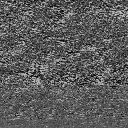
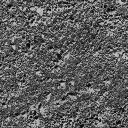
Chão: textura de detalhe decodificada certa (gob com mipmap) e grão recalibrado
O gob_tex2png pegava o fim do arquivo quando o .gob tinha mipmap (tamanho 0x158 maior que a imagem): a DETAIL.bog saía embaralhada (ruído) e com uma faixa (os níveis menores). Agora o nível 0 vem do 0x15c. Sai o ajuste de igualar linhas. Grão: força 0.9, some de 4 a 20 m; jogo 14.2 perto / 4.5 meio, remake 11.3 / 5.3.

Claude-Session: https://claude.ai/code/session_01KsSrzkeumqhscb5q9SBJ4V

diff --git a/tools/gob_tex2png.py b/tools/gob_tex2png.py
@@ -128,6 +128,11 @@ def convert(path):
     sz, off = u32(d, 0x158), u32(d, 0x15C)
     if sz == img_size and off + sz <= len(d):
         pix = d[off:off + sz]
+    elif sz > img_size and off + img_size <= len(d) and off + sz <= len(d):
+        # com mipmaps (ex: DETAIL.bog das pistas, 10880 = 128x128 + 64 + 32 +
+        # 16 em 4 bits): o nível 0 vem primeiro. Antes caía no "fim do
+        # arquivo" e misturava os níveis menores (saía ruído embaralhado)
+        pix = d[off:off + img_size]
     else:
         pix = d[len(d) - img_size:]
 

diff --git a/CLAUDE.md b/CLAUDE.md
@@ -646,15 +646,18 @@ Matheus: `C:\Users\Guida\Desktop\Estudo de programação\ATV 4 Engenharia revers
   assets/terrain/rx01_detalhe.png, no git). env.header +0x2c = 5.0 e o
   0x29ed98 (x16) = 80 repetições por bloco de 128 m (1.6 m cada; leitura
   nossa). A mistura fica no VU1 (não achada): NOSSO terrain.gd fator 1 +
-  1.15 x (alfa/média - 1), mesmo brilho médio, apagando de 5 a 25 m da
+  0.9 x (alfa/média - 1), mesmo brilho médio, apagando de 4 a 20 m da
   câmera. Calibrado pelo desvio do grão fino (imagem a 640 px): jogo 14.2
-  perto / 4.5 meio; remake 0.2 / 1.7 antes, 13.5 / 6.1 agora. DETALHE=x,
-  DETALHE_M=x, DETALHE_SOME=a,b (diagnóstico).
-  Faixas ("tá tendo divisões", print do Matheus): o terço de baixo da
-  DETAIL.bog tem bem menos contraste (desvio 15-29 x ~40) e repetida a cada
-  1.6 m virava faixa diagonal no chão; no jogo não aparece. NOSSO:
-  terrain._iguala_linhas deixa cada linha com a média e o desvio da textura
-  na carga (o arquivo fica cru). Grão agora 12.6 perto / 5.7 meio.
+  perto / 4.5 meio; remake 0.2 / 1.7 sem detalhe, 11.3 / 5.3 agora.
+  DETALHE=x, DETALHE_M=x, DETALHE_SOME=a,b (diagnóstico).
+  ERRO NOSSO que custou caro ("parece ruído, não parece o chão do jogo",
+  Matheus): textura com MIPMAP no .gob (0x158 = tamanho de todos os níveis,
+  ex: DETAIL.bog 10880 = 128x128 + 64 + 32 + 16 em 4 bits) caía no "pega o
+  fim do arquivo" do gob_tex2png e saía embaralhada (ruído puro, e o terço
+  de baixo diferente = os níveis menores). Agora o nível 0 vem do 0x15c. 477
+  das 15681 texturas do unpacked têm mipmap: quase todas DETAIL das pistas
+  (PlaceHolder), "dirt" vazias dos carros e umas de menu; nada do RX01 nem
+  dos carros que já usávamos.
 - Material do chão: só o atrito (pneu) e o Damping (arrasto do chão,
   0x20e5e8) mexem na física do buggy. Hardness, Sink e Bounciness o jogo
   carrega e não lê (varredura do exe, docs Terreno). Não "portar" eles.

diff --git a/docs/engenharia_reversa.md b/docs/engenharia_reversa.md
@@ -972,7 +972,8 @@ vazios). Tudo vem do evento:
   renderer 0x7f6718 +0x1e4 (padrão 5.0 no 0x29ce38; 2x no LOD de longe em
   0x1ec898) e o 0x29ed98 faz +0x138/+0x148 = +0x1e4 x 16 x +0x1e8/+0x1ec.
   O renderer também guarda o ActualBrightness (+0xe4). A mistura e o +0x1e8
-  ficam no VU1 (não achados).
+  ficam no VU1 (não achados). O .gob tem os 4 níveis de mipmap (0x158 =
+  10880 bytes a partir do 0x15c): o nível 0 é o primeiro.
 - PS2 sem tonemap. Godot faz a luz em espaço linear e o PS2 na cor da tela:
   o mesmo ambiente 0.66 clareava muito mais no remake.
 
